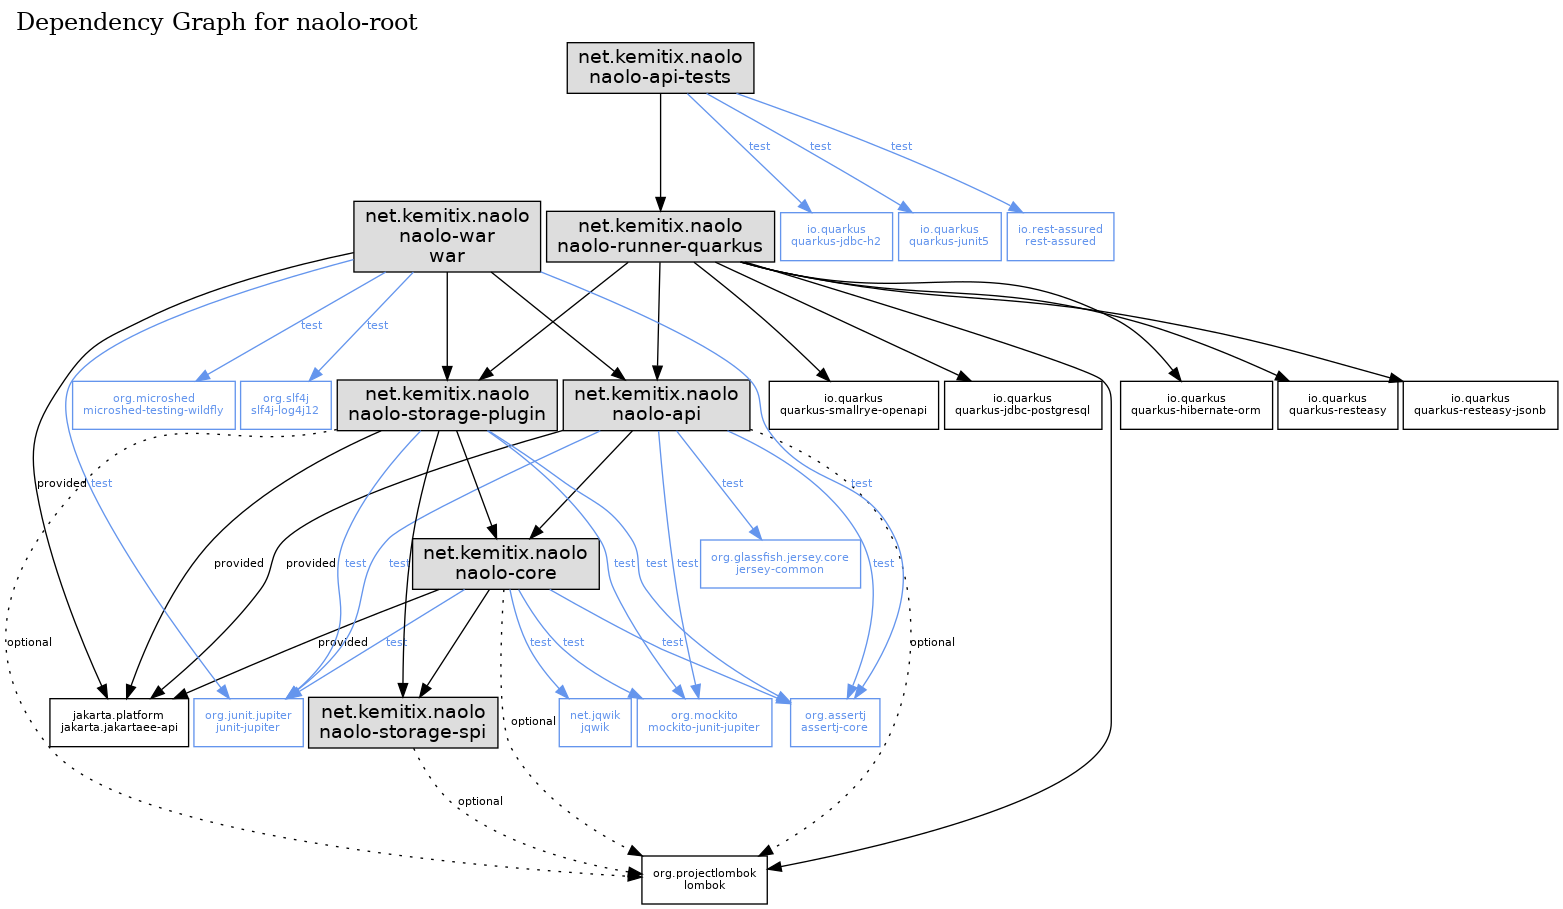
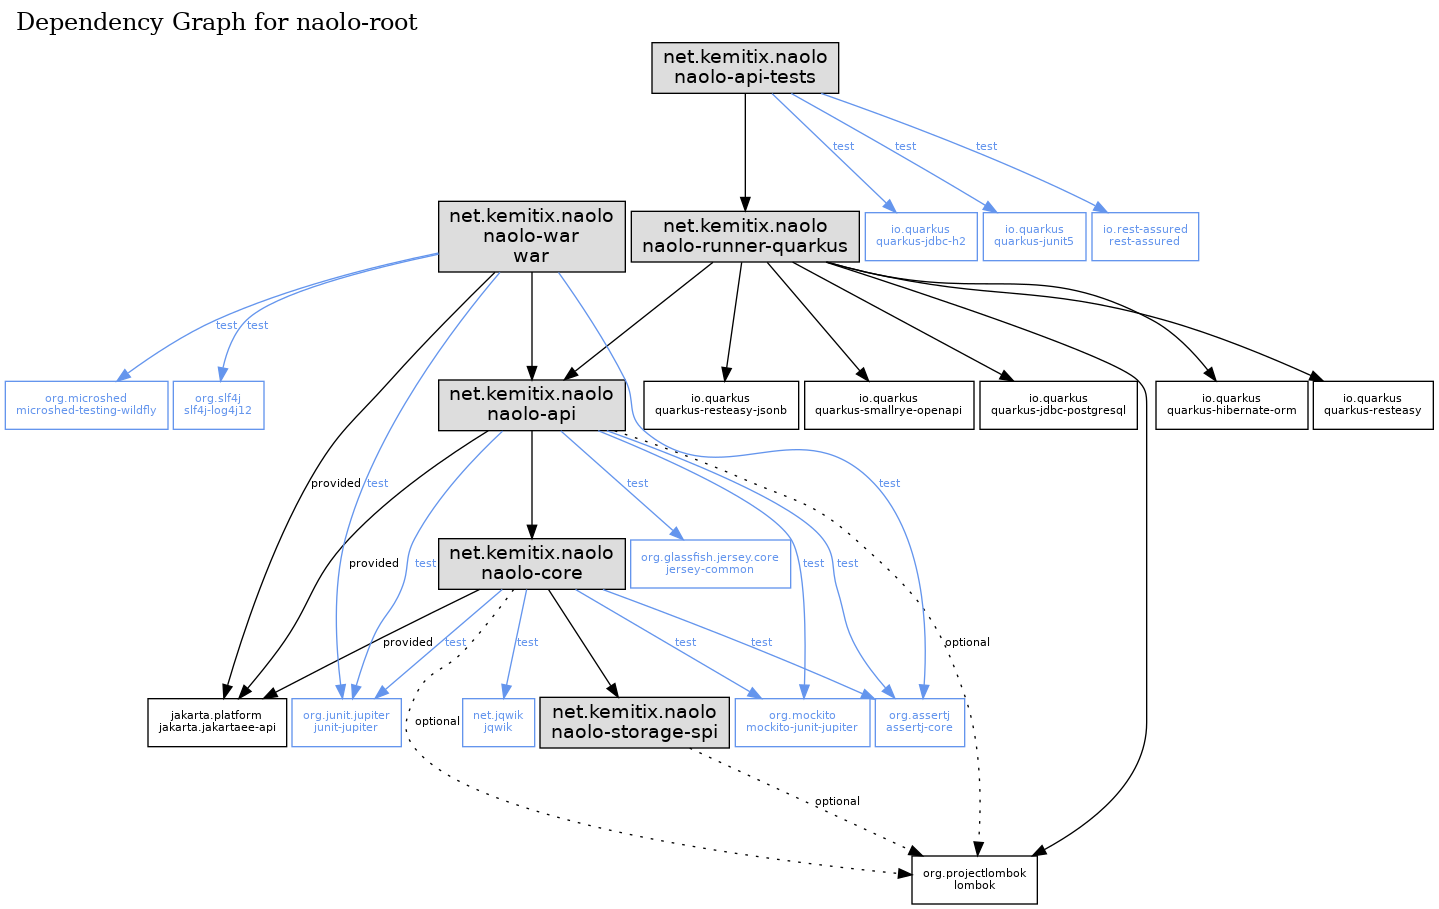
Merge storage-plugin into core

diff --git a/core/src/test/java/net/kemitix/naolo/storage/AbstractEntityRepositoryTest.java b/core/src/test/java/net/kemitix/naolo/storage/AbstractEntityRepositoryTest.java
@@ -1,4 +1,4 @@
-package net.kemitix.naolo.storage.plugins;
+package net.kemitix.naolo.storage;
 
 import org.assertj.core.api.WithAssertions;
 import org.junit.jupiter.api.DisplayName;
@@ -31,7 +31,7 @@ public class AbstractEntityRepositoryTest
     }
 
     private class FakeRepository
-            extends AbstractEntityRepository<Entity>{
+            extends AbstractEntityRepository<Entity> {
         private FakeRepository() {
             super(entityManager);
         }

diff --git a/core/src/test/java/net/kemitix/naolo/storage/VeterinarianRepositoryTest.java b/core/src/test/java/net/kemitix/naolo/storage/VeterinarianRepositoryTest.java
@@ -1,4 +1,4 @@
-package net.kemitix.naolo.storage.plugins;
+package net.kemitix.naolo.storage;
 
 import net.kemitix.naolo.entities.Veterinarian;
 import net.kemitix.naolo.storage.spi.EntityRepository;

diff --git a/core/src/main/java/net/kemitix/naolo/storage/AbstractEntityRepository.java b/core/src/main/java/net/kemitix/naolo/storage/AbstractEntityRepository.java
@@ -1,4 +1,4 @@
-package net.kemitix.naolo.storage.plugins;
+package net.kemitix.naolo.storage;
 
 import net.kemitix.naolo.storage.spi.EntityRepository;
 import net.kemitix.naolo.storage.spi.HasId;

diff --git a/core/src/test/java/net/kemitix/naolo/storage/PetRepositoryTest.java b/core/src/test/java/net/kemitix/naolo/storage/PetRepositoryTest.java
@@ -1,4 +1,4 @@
-package net.kemitix.naolo.storage.plugins;
+package net.kemitix.naolo.storage;
 
 import net.kemitix.naolo.entities.Pet;
 import net.kemitix.naolo.storage.spi.EntityRepository;

diff --git a/core/src/test/java/net/kemitix/naolo/storage/OwnerRepositoryTest.java b/core/src/test/java/net/kemitix/naolo/storage/OwnerRepositoryTest.java
@@ -1,4 +1,4 @@
-package net.kemitix.naolo.storage.plugins;
+package net.kemitix.naolo.storage;
 
 import net.kemitix.naolo.entities.Owner;
 import org.assertj.core.api.WithAssertions;

diff --git a/core/src/test/java/net/kemitix/naolo/storage/VisitRepositoryTest.java b/core/src/test/java/net/kemitix/naolo/storage/VisitRepositoryTest.java
@@ -1,4 +1,4 @@
-package net.kemitix.naolo.storage.plugins;
+package net.kemitix.naolo.storage;
 
 import net.kemitix.naolo.entities.Visit;
 import org.assertj.core.api.WithAssertions;

diff --git a/core/src/main/java/net/kemitix/naolo/storage/VeterinarianRepository.java b/core/src/main/java/net/kemitix/naolo/storage/VeterinarianRepository.java
@@ -1,4 +1,4 @@
-package net.kemitix.naolo.storage.plugins;
+package net.kemitix.naolo.storage;
 
 import net.kemitix.naolo.entities.Veterinarian;
 

diff --git a/core/src/main/java/net/kemitix/naolo/storage/OwnerRepository.java b/core/src/main/java/net/kemitix/naolo/storage/OwnerRepository.java
@@ -1,4 +1,4 @@
-package net.kemitix.naolo.storage.plugins;
+package net.kemitix.naolo.storage;
 
 import net.kemitix.naolo.entities.Owner;
 

diff --git a/core/src/main/java/net/kemitix/naolo/storage/VisitRepository.java b/core/src/main/java/net/kemitix/naolo/storage/VisitRepository.java
@@ -1,4 +1,4 @@
-package net.kemitix.naolo.storage.plugins;
+package net.kemitix.naolo.storage;
 
 import net.kemitix.naolo.entities.Visit;
 

diff --git a/core/src/main/java/net/kemitix/naolo/storage/PetRepository.java b/core/src/main/java/net/kemitix/naolo/storage/PetRepository.java
@@ -1,4 +1,4 @@
-package net.kemitix.naolo.storage.plugins;
+package net.kemitix.naolo.storage;
 
 import net.kemitix.naolo.entities.Pet;
 
